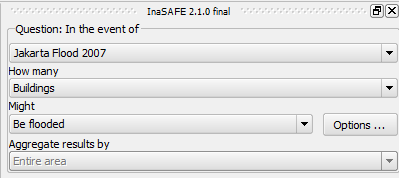
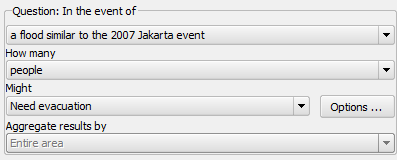
updating for InaSAFE 2.1.* and editing writing style

Changed region(s): [[0.0, 0.0, 1.0, 1.0]]

diff --git a/docs/source/training/socialisation/run_basic_inasafe.rst b/docs/source/training/socialisation/run_basic_inasafe.rst
@@ -3,28 +3,17 @@
 Run Basic |project_name|
 ========================
 
-**Objectives:**
+**Learning Objectives:**
 
-* To run |project_name| using a flood model & population and examine the
+* Run |project_name| using flood and population models and examine the
   results
-* To create a impact map
-* To modify the threshold of an impact function
-* To run |project_name| using a flood model & building and examine the results
+* Create an impact map
+* Modify the threshold (parameters) of an impact function
+* Run |project_name| using flood and building models and examine the results
 
-**Expected Results:**
+**Data for this Module**
 
-Participants are able to:
-
-* run and understand the results of an |project_name| using a flood model &
-  population
-* create an impact map using the |project_name| print button
-* change the threshold of an impact function
-* run and understand the results of an |project_name| using a flood model &
-  building
-
-**Data for Practical**
-
-You can download the InaSAFEv2.0.zip from `InaSAFE Training Data Packages
+Download the InaSAFEv2.0.zip from `InaSAFE Training Data Packages
 <http://data.inasafe.org/TrainingDataPackages/>`_
 or it will be provided to you during the training.
 
@@ -34,16 +23,17 @@ Introduction
 In this section we will run |project_name| using a scenario in Jakarta, Indonesia 
 to determine the impact of a flood model on both Jakarta's population and buildings.
 
-1. Go to :menuselection:`File --> Open Projects`.
+1. Go to :menuselection:`Project --> Open`.
 
-2. If you have been following along in the previous sections a message box will appear 
-   asking if you want to save the current project. Click :guilabel:`Discard`.
+2. If you have been working in QGIS previously a message box will appear 
+   asking if you want to save the current project. Click :guilabel:`Discard`
+   to exit your current work without saving.
 
 .. image:: /static/training/socialisation/028_saveproject.*
    :align: center
 
-3. Navigate to the :file:`InaSAFE_project` folder and select
-	 :file:`Jakarta_floods.qgs`, Click :guilabel:`Open`.
+3. Navigate to the :file:`InaSAFE_project` folder and 
+   select :file:`Jakarta_floods.qgs`. Click :guilabel:`Open`.
 
 The project looks something like this:
 
@@ -51,18 +41,11 @@ The project looks something like this:
    :align: center
 
 
-People need evacuating
-----------------------
+Population which need evacuation
+--------------------------------
 
-As you can see the |project_name| panel has the first three drop down menus
+The |project_name| panel has the first three drop-down menus
 filled in already:
-
-* a flood similar to the 2007 Jakarta event
-* buildings
-* Be Flooded
-
-4. In the |project_name| panel click on :guilabel:`buildings` and
-select :guilabel:`people` instead. It should now have:
 
 * a flood similar to the 2007 Jakarta event
 * people
@@ -71,69 +54,75 @@ select :guilabel:`people` instead. It should now have:
 .. image:: /static/training/socialisation/030_showpeople.*
    :align: center
 
-.. note:: Notice that the impact function below :guilabel:`Might` automatically
-   changed from :guilabel:`Be flooded` to :guilabel:`Need evacuation`. This is changed
-   because of the new combination of the hazard and exposure layers.
+.. note:: The |project_name| panel may instead read as follows:
+   
+   * a flood similar to the 2007 Jakarta event
+   * buildings
+   * Be flooded
+   
+   If so, click on buildings and change it to people. When you change this field,
+   the impact function is automatically changed between :guilabel:`Be flooded`
+   and :guilabel:`Need evacuation`, based on the combination of hazard and
+   exposure layers.
 
-5. Lets run this scenario first. Click :guilabel:`Run` in the bottom right
-   hand corner of the |project_name| panel.
+4. Let's run this scenario first. Click :guilabel:`Run` in the lower 
+   right corner of the |project_name| panel.
 
 .. image:: /static/training/socialisation/031_run.png
    :align: center
 
-A new layer should appear in the layer panel called *Population which needs
-evacuating*.
+A new layer should appear in the layer panel called :guilabel:`Population which
+need evacuation`.
 
 .. image:: /static/training/socialisation/032_results.*
    :align: center
 
-In the |project_name| panel we now see text and
-statistics, which we will explore further.
+In the |project_name| panel we now see text and statistics. The
+details of this report are explained below.
 
 .. image:: /static/training/socialisation/033_peoplefloodresult.*
    :align: center
 
-**Evacuation:** There are 1,109,000 people that are located in water deeper than
-one metre. It is assumed that all of these people will need to evacuate their
-homes.  The threshold of one metre can be changed (see Changing Threshold below).
+**People:** |project_name| shows approximately how many people are located
+in water deeper than one metre. It is assumed that all of these people will
+need to evacuate their homes.  The threshold of one metre can be changed
+(see Changing threshold section below).
 
-**Minimum needs:** is calculated using the above number of evacuated people to
+**Needs per week** is calculated using the above number of evacuated people to
 estimate the amount of food, water and other products that the refugees will
-need to survive. The figures are based on an Indonesian policy.
+need to survive. The figures are based on Indonesian policy.
 
-**Action checklist:** designed to make disaster managers think about what
+**Action checklist** is designed to make disaster managers think about what
 they need to do to prepare for the event.
 
-**Notes:** explains the total people in the map canvas, the threshold of water
+**Notes** explains the total people in the map canvas, the threshold of water
 depth that requires evacuation and the source of the minimum needs assessment.
 
 **Detailed gender and age report:** Statistical breakdown of the number of
 females, minimum needs for womens' hygiene and pregnant women, as
 well as a statistical breakdown of Youth, Adults and Elderly.
 
-**Source:** where the exposure and hazard data originally came from.
-
 Print Results
 .............
 
-.. note:: You can choose whether you want print the whole analysis or the current
-   map extent. You also can pick an existing print template or you can navigate to your own
-   QGIS template (.qpt). For more information about printing Click
-   :guilabel:`Help` in the print window.
-
-6. Click :guilabel:`Print` at the bottom the |project_name| panel.
+5. Click :guilabel:`Print...` at the bottom the |project_name| panel.
 
 .. image:: /static/training/socialisation/034_print.*
    :align: center
 
-7. A window will pop up as shown below. Ensure that :guilabel:`Analysis extent`
+.. note:: You can choose whether you want print the whole analysis or the current
+   map extent. You also can pick an existing print template or you can navigate to your own
+   QGIS template (.qpt). For more information about printing click
+   :guilabel:`Help` in the print window.
+
+6. A window will pop up as shown below. Ensure that :guilabel:`Analysis extent`
    is selected under :guilabel:`Area to print` and :guilabel:`inasafe...` is chosen
    under :guilabel:`Template to use`. Click :guilabel:`Open PDF`.
 
 .. image:: /static/training/socialisation/034a_impact_report.*
    :align: center
 
-8. Navigate to where you would like to save the PDF
+7. Navigate to where you would like to save the PDF
    and type :file:`Jakartaflood_evacuation_1m`. Click :guilabel:`Save`.
 
 .. image:: /static/training/socialisation/034b_save_report.*
@@ -144,9 +133,9 @@ Two PDFs will be generated, which contain a map and a table of information about
 .. image:: /static/training/socialisation/035_People_in_need_of_evacuation_1m.*
    :align: center
 
-.. note:: In the future version of |project_name| the developers will make improvements
+.. note:: In a future version of |project_name| the developers will make improvements
    to the layout of these PDF files. *If you have time during this course please
-   proved us with your ideas on how the print map and table should look!*
+   provide us with your ideas on how the print map and table should look!*
 
 Changing threshold
 ..................
@@ -155,25 +144,25 @@ What if the disaster manager decides that people should be evacuated if they
 are in 80cm or more of water? In this case we will need to change the water threshold
 at which level people should be evacuated.
 
-9. Click :guilabel:`Show question form` found at the top of the |project_name| panel.
+8. Click :guilabel:`Show question form` found at the top of the |project_name| panel.
 
 .. image:: /static/training/socialisation/036_showquestion.*
    :align: center
 
-10. To change the impact function click the :guilabel:`Options...` button next to
-    the :guilabel:`Need evacuation`.
+9. To change the impact function click the :guilabel:`Options...` button next 
+   to :guilabel:`Need evacuation`.
 
 .. image:: /static/training/socialisation/037_functionchange.*
    :align: center
 
-11. Type :kbd:`0.8` in the :guilabel:`Thresholds` field.
+10. Type :kbd:`0.8` in the :guilabel:`Thresholds` field.
 
 .. image:: /static/training/socialisation/038_configure.*
    :align: center
 
-12. Click :guilabel:`OK`.
+11. Click :guilabel:`OK`.
 
-13. Click :guilabel:`Run` to process the scenario with the new water threshold.
+12. Click :guilabel:`Run` to process the scenario with the new water threshold.
 
 .. image:: /static/training/socialisation/031_run.*
    :align: center
@@ -186,27 +175,27 @@ in the |project_name| panel. How have they changed?
    Is this the answer you were expecting?
    **Answer:** _____________________
 
-14. Click :guilabel:`Print` at the bottom the |project_name| panel.
+13. Click :guilabel:`Print` at the bottom the |project_name| panel.
 
 .. image:: /static/training/socialisation/034_print.*
    :align: center
 
-15. A window will pop up as shown below. Ensure that :guilabel:`Analysis extent`
-   is selected under :guilabel:`Area to print` and :guilabel:`inasafe...` is chosen
-   under :guilabel:`Template to use`. Click :guilabel:`Open PDF`.
+14. A window will pop up as shown below. Ensure that :guilabel:`Analysis extent` is
+    selected under :guilabel:`Area to print` and :guilabel:`inasafe...` is chosen
+    under :guilabel:`Template to use`. Click :guilabel:`Open PDF`.
 
 .. image:: /static/training/socialisation/034a_impact_report.*
    :align: center
 
-16. Navigate to where you would like to save the pdf
-   and type :file:`Jakartaflood_evacuation_80cm`. Click :guilabel:`Save`.
+15. Navigate to where you would like to save the PDF and type 
+    :file:`Jakartaflood_evacuation_80cm`. Click :guilabel:`Save`.
 
-17. Next we will run the |project_name| analysis on buildings, but first let's turn 
+16. Next we will run the |project_name| analysis on buildings, but first let's turn 
     some layers off. In the Layers panel there should now be five layers. Uncheck 
     everything except:
 
-* a flood similar to the 2007 Jakarta event
-* buildings
+    * a flood similar to the 2007 Jakarta event
+    * buildings
 
 .. image:: /static/training/socialisation/039_buildingflood.*
    :align: center
@@ -214,45 +203,50 @@ in the |project_name| panel. How have they changed?
 Buildings Affected
 ------------------
 
-18. Confirm that the |project_name| panel is the same as the image below
+17. Confirm that the |project_name| panel is set to query how many buildings
+    might be flooded.
 
 .. image:: /static/training/socialisation/040_inasafebuidlingflood.png
    :align: center
 
-19. Notice that if you click on the dropdown box with :guilabel:`Buildings`,
+18. Notice that if you click on the drop-down list with :guilabel:`Buildings`,
     the people option is not available. This is because :guilabel:`people` 
     is not checked in the Layers panel.
 
 .. note:: If you want to be able to select layers within the
-   |project_name| panel that are not checked in the **Layer List** you can
+   |project_name| panel that are not checked in the Layers panel you can
    modify the |project_name| options.
    For more information on |project_name| options, see the user documentation here: 
    :doc:`../../user-docs/application-help/options`.
-   The option menu is also discussed later in this tutorial in :doc:`helpful_hints_and_tips`.
+   The options menu is also discussed later in this tutorial in :doc:`helpful_hints_and_tips`.
 
-20. Click :guilabel:`Run` to process the new scenario.
+19. Click :guilabel:`Run` to process the new scenario.
 
 .. image:: /static/training/socialisation/041_buildingfloodresults.png
    :align: center
 
 In this scenario approximately 1,434 buildings could be affected out of 31,515
-buildings.
+buildings. Your results may very depending on updates that have been made to the
+exposure data.
 
-Due to the provincial BPBD work in OpenStreetMap they have mapped all
-important buildings (and then some!).
+.. note:: Due to the provincial BPBD work in OpenStreetMap all important buildings 
+   in this area have been mapped (and then some!).
 
-Important buildings are defined as:
+   Important buildings are defined as:
 
-* Clinic/doctors
-* Fire stations
-* Government
-* Hospitals
-* Place of Worship
-* Police stations
-* Residential
-* Schools
-* Sports Facilities
-* Univeristy/college
+   * Clinic/doctors
+   * Fire stations
+   * Government
+   * Hospitals
+   * Place of Worship
+   * Police stations
+   * Residential
+   * Schools
+   * Sports Facilities
+   * Univeristy/college
+
+In the |project_name| panel we now see text and statistics. The
+details of this report are explained here:
 
 **Action Checklist:** A different set of actions have been identified to
 relate to structures.
@@ -261,26 +255,26 @@ relate to structures.
 assumes impact is in water above one metre.
 
 **Detailed building type report:** This is a breakdown of important
-infrastructure, when you choose to aggregate (we will do this later) this
+infrastructure. When you choose to aggregate (we will do this later) this
 table will show the number of buildings by aggregation boundary.
 
-**Source:** of the Hazard and Population Datasets
+**Source** shows the source of the hazard and exposure datasets.
 
 
-21. Click :guilabel:`Print` at the bottom the |project_name| panel.
+20. Click :guilabel:`Print` at the bottom the |project_name| panel.
 
 .. image:: /static/training/socialisation/034_print.png
    :align: center
 
-22. A window will pop up as shown below. Ensure that :guilabel:`Analysis extent`
-   is selected under :guilabel:`Area to print` and :guilabel:`inasafe...` is chosen
-   under :guilabel:`Template to use`. Click :guilabel:`Open PDF`.
+21. A window will pop up as shown below. Ensure that :guilabel:`Analysis extent`
+    is selected under :guilabel:`Area to print` and :guilabel:`inasafe...` is chosen
+    under :guilabel:`Template to use`. Click :guilabel:`Open PDF`.
 
 .. image:: /static/training/socialisation/034a_impact_report.*
    :align: center
 
-23. Navigate to where you would like to save the PDF
-   and type :file:`Jakartaflood_inundated_1m`. Click :guilabel:`Save`.
+22. Navigate to where you would like to save the PDF
+    and type :file:`Jakartaflood_inundated_1m`. Click :guilabel:`Save`.
 
 
 (Optional) Change the threshold to 0.8
@@ -288,18 +282,18 @@ table will show the number of buildings by aggregation boundary.
 
 You may try running this scenario again with a water threshold of 0.8 metres.
 
-24. Check that |project_name| has the following in the drop-down boxes:
+23. Check that |project_name| has the following in the drop-down boxes:
 
 * a flood similar to the 2007 Jakarta event
 * Buildings
 * Be flooded
 
-25. To change the impact function click the :guilabel:`Options...` button next to
-    the :guilabel:`Be flooded`.
+24. To change the impact function click the :guilabel:`Options...` button on 
+    the |project_name| panel.
 
-26. Type :kbd:`0.8` in the :guilabel:`Thresholds` field.
+25. Type :kbd:`0.8` in the :guilabel:`Thresholds` field.
 
-27. Click :guilabel:`Run` to process the scenario with the new water threshold.
+26. Click :guilabel:`Run` to process the scenario with the new water threshold.
 
-28. Click :guilabel:`Print` and save PDFs the same way as before.
+27. Click :guilabel:`Print` and save PDFs the same way as before.
 
